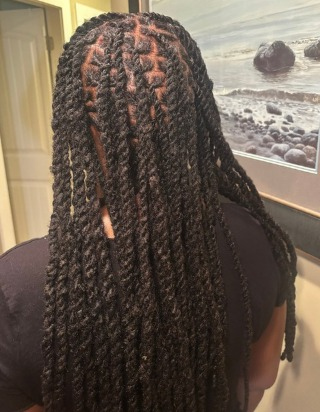
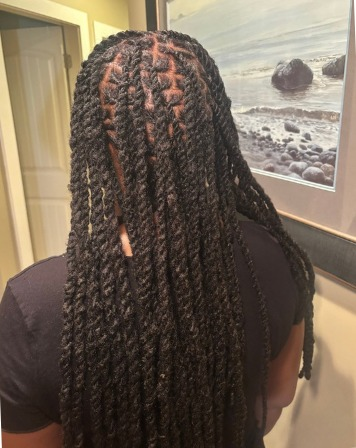
h

diff --git a/index.html b/index.html
@@ -7,7 +7,7 @@
   <link rel="preconnect" href="https://fonts.googleapis.com" />
   <link rel="preconnect" href="https://fonts.gstatic.com" crossorigin />
   <link href="https://fonts.googleapis.com/css2?family=Great+Vibes&family=Montserrat:wght@400;500;600;700&family=Cormorant+Garamond:ital,wght@0,400;0,500;1,400&display=swap" rel="stylesheet" />
-  <link rel="stylesheet" href="styles.css?v=32" />
+  <link rel="stylesheet" href="styles.css?v=34" />
 </head>
 <body>
   <header class="site-nav">
@@ -17,8 +17,8 @@
 
   <section class="hero">
     <div class="hero-sides" aria-hidden="true">
-      <img src="images/hero-locs-left.jpg?v=21" alt="" />
-      <img src="images/hero-locs-right.jpg?v=21" alt="" />
+      <img src="images/hero-locs-left.jpg?v=22" alt="" />
+      <img src="images/hero-locs-right.jpg?v=22" alt="" />
     </div>
     <div class="hero-content">
       <p class="kicker">Welcome to our booking website</p>
@@ -44,7 +44,7 @@
         <div class="portrait-sparkles" aria-hidden="true"></div>
         <div class="portrait-glow"></div>
         <div class="portrait-clip">
-          <img class="portrait" src="images/stylist-portrait.jpg?v=20" alt="Tonika Lord" />
+          <img class="portrait" src="images/stylist-portrait.jpg?v=22" alt="Tonika Lord" />
         </div>
       </div>
     </div>
@@ -52,9 +52,9 @@
 
   <section class="hours-contact">
     <div class="hours-bg" aria-hidden="true">
-      <img src="images/hours-1.jpg?v=20" alt="" />
-      <img src="images/hours-2.jpg?v=20" alt="" />
-      <img src="images/hours-3.jpg?v=20" alt="" />
+      <img src="images/polaroid-1.jpg?v=22" alt="" />
+      <img src="images/polaroid-3.jpg?v=22" alt="" />
+      <img src="images/polaroid-4.jpg?v=22" alt="" />
     </div>
     <div class="hours-veil"></div>
     <div class="hours-grid">
@@ -162,9 +162,9 @@
 
   <section class="before">
     <div class="hours-bg" aria-hidden="true">
-      <img src="images/before-1.jpg?v=20" alt="" />
-      <img src="images/before-2.jpg?v=20" alt="" />
-      <img src="images/before-3.jpg?v=20" alt="" />
+      <img src="images/polaroid-2.jpg?v=22" alt="" />
+      <img src="images/polaroid-4.jpg?v=22" alt="" />
+      <img src="images/polaroid-1.jpg?v=22" alt="" />
     </div>
     <div class="hours-veil"></div>
     <h2 class="neon policies-title">Before your Appt</h2>
@@ -197,23 +197,23 @@
       </ul>
     </div>
     <div class="polaroid-stack" aria-hidden="true">
-      <div class="polaroid tilt-left"><img src="images/polaroid-1.jpg?v=20" alt="" /></div>
-      <div class="polaroid tilt-right"><img src="images/polaroid-2.jpg?v=20" alt="" /></div>
+      <div class="polaroid tilt-left"><img src="images/polaroid-1.jpg?v=22" alt="" /></div>
+      <div class="polaroid tilt-right"><img src="images/polaroid-2.jpg?v=22" alt="" /></div>
     </div>
   </section>
 
   <section class="selfies">
     <div class="selfies-bg" aria-hidden="true">
-      <img src="images/selfies-bg.jpg?v=20" alt="" />
+      <img src="images/polaroid-3.jpg?v=22" alt="" />
     </div>
     <div class="hours-veil"></div>
     <div class="selfies-inner">
       <div class="phones" aria-hidden="true">
         <div class="phone tilt-left">
-          <img src="images/selfie-1.jpg?v=20" alt="" />
+          <img src="images/selfie-1.jpg?v=22" alt="" />
         </div>
         <div class="phone tilt-right">
-          <img src="images/selfie-2.jpg?v=20" alt="" />
+          <img src="images/selfie-2.jpg?v=22" alt="" />
         </div>
       </div>
       <div class="selfies-copy">
@@ -229,8 +229,8 @@
 
   <section class="thanks">
     <div class="polaroid-stack" aria-hidden="true">
-      <div class="polaroid tilt-left"><img src="images/polaroid-3.jpg?v=20" alt="" /></div>
-      <div class="polaroid tilt-right"><img src="images/polaroid-4.jpg?v=20" alt="" /></div>
+      <div class="polaroid tilt-left"><img src="images/polaroid-3.jpg?v=22" alt="" /></div>
+      <div class="polaroid tilt-right"><img src="images/polaroid-4.jpg?v=22" alt="" /></div>
     </div>
     <div class="thanks-copy">
       <h2 class="neon">Thank You</h2>

diff --git a/styles.css b/styles.css
@@ -104,24 +104,25 @@ ul {
 }
 
 .hero-sides img {
-  width: 28%;
+  width: 36%;
   height: 100%;
   max-width: none;
-  object-fit: cover;
-  opacity: 0.55;
-  filter: brightness(0.62) saturate(0.9);
+  object-fit: contain;
+  object-position: center;
+  opacity: 0.7;
+  filter: brightness(0.78) saturate(0.95);
 }
 
 .hero-sides img:first-child {
-  object-position: 30% 40%;
-  -webkit-mask-image: linear-gradient(to right, #000 35%, transparent);
-  mask-image: linear-gradient(to right, #000 35%, transparent);
+  object-position: 18% 42%;
+  -webkit-mask-image: linear-gradient(to right, #000 42%, transparent);
+  mask-image: linear-gradient(to right, #000 42%, transparent);
 }
 
 .hero-sides img:last-child {
-  object-position: 70% 35%;
-  -webkit-mask-image: linear-gradient(to left, #000 35%, transparent);
-  mask-image: linear-gradient(to left, #000 35%, transparent);
+  object-position: 82% 38%;
+  -webkit-mask-image: linear-gradient(to left, #000 42%, transparent);
+  mask-image: linear-gradient(to left, #000 42%, transparent);
 }
 
 .hero-content {
@@ -240,8 +241,8 @@ a {
   width: 100%;
   height: 100%;
   object-fit: cover;
-  object-position: 50% 32%;
-  transform: scale(1.28);
+  object-position: 50% 28%;
+  transform: none;
   filter: none;
   border: 0;
   box-shadow: none;
@@ -305,7 +306,8 @@ a {
   max-width: none;
   height: 100%;
   object-fit: cover;
-  filter: brightness(0.55) contrast(1.1) saturate(0.95);
+  object-position: center 25%;
+  filter: brightness(0.58) contrast(1.08) saturate(0.95);
 }
 
 .hours-veil {
@@ -787,8 +789,10 @@ select {
   width: 100%;
   height: 100%;
   max-width: none;
-  object-fit: cover;
-  transform: scale(1.24);
+  object-fit: contain;
+  object-position: center;
+  transform: none;
+  background: #111;
 }
 
 .tilt-left {
@@ -821,6 +825,7 @@ select {
   height: 100%;
   max-width: none;
   object-fit: cover;
+  object-position: center 35%;
   filter: brightness(0.28) contrast(1.08);
 }
 
@@ -867,10 +872,11 @@ select {
   width: 100%;
   height: 18rem;
   max-width: none;
-  object-fit: cover;
-  object-position: 50% 18%;
-  transform: scale(1.12);
+  object-fit: contain;
+  object-position: center top;
+  transform: none;
   border-radius: 1.1rem;
+  background: #111;
 }
 
 .phone.tilt-left {

diff --git a/book.html b/book.html
@@ -7,7 +7,7 @@
   <link rel="preconnect" href="https://fonts.googleapis.com" />
   <link rel="preconnect" href="https://fonts.gstatic.com" crossorigin />
   <link href="https://fonts.googleapis.com/css2?family=Great+Vibes&family=Montserrat:wght@400;500;600;700&family=Cormorant+Garamond:ital,wght@0,400;0,500;1,400&display=swap" rel="stylesheet" />
-  <link rel="stylesheet" href="styles.css?v=32" />
+  <link rel="stylesheet" href="styles.css?v=34" />
 </head>
 <body class="book-page">
   <header class="book-top">
